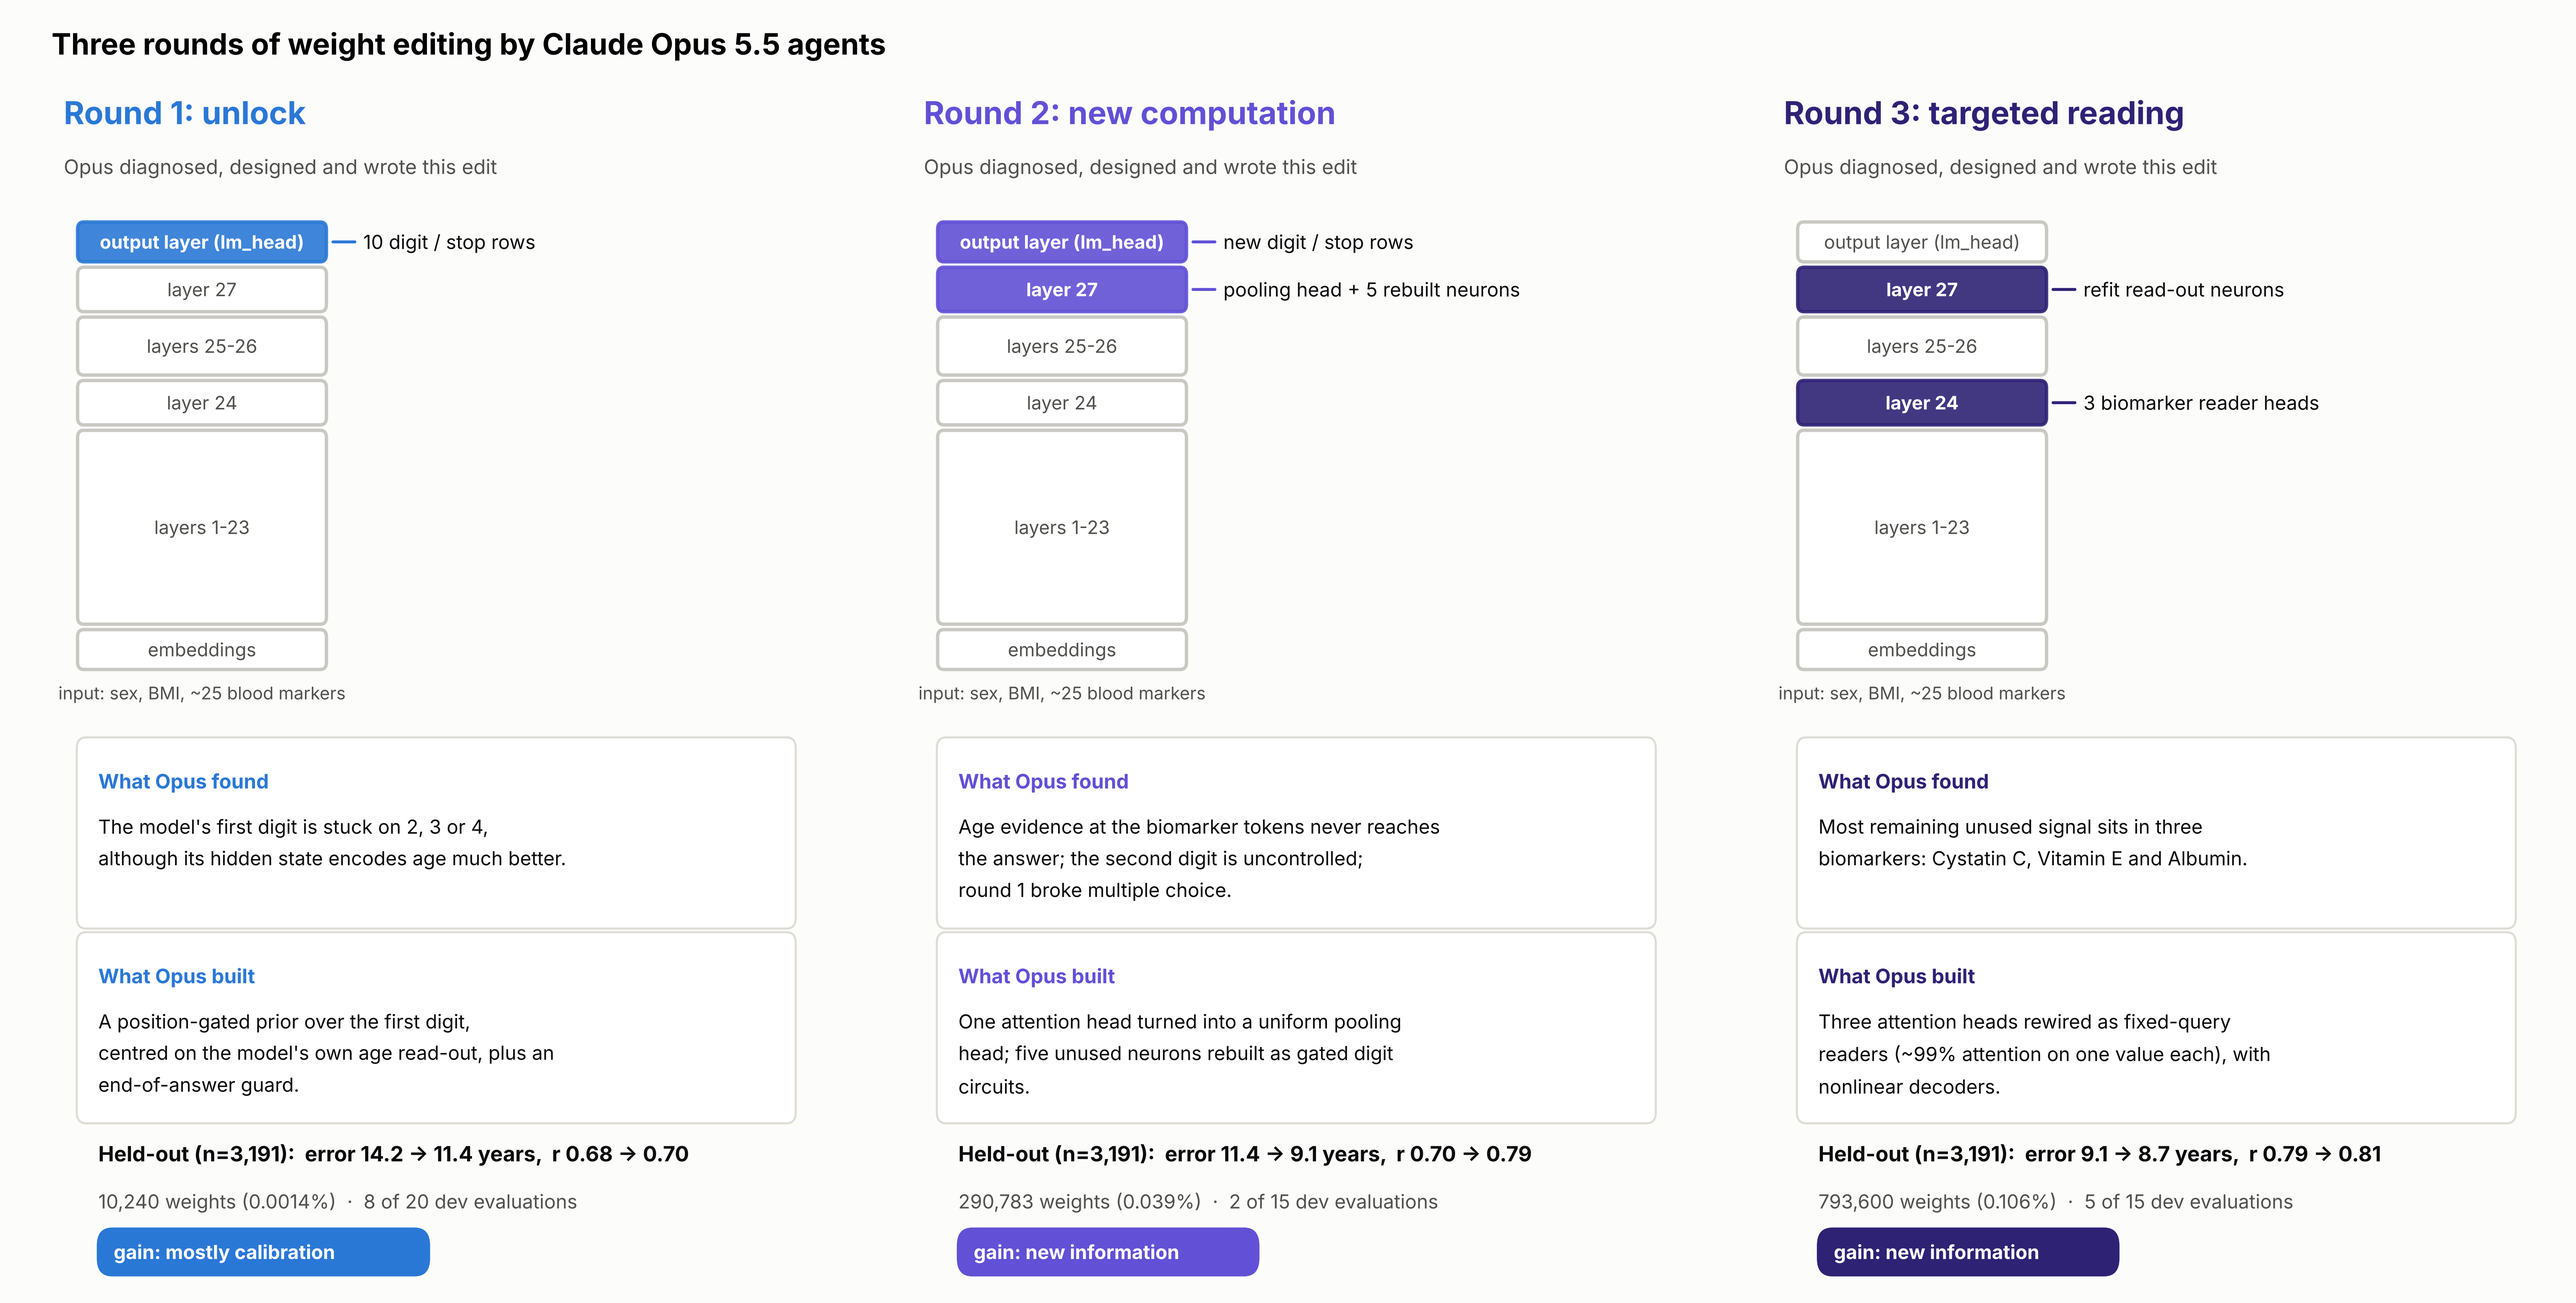
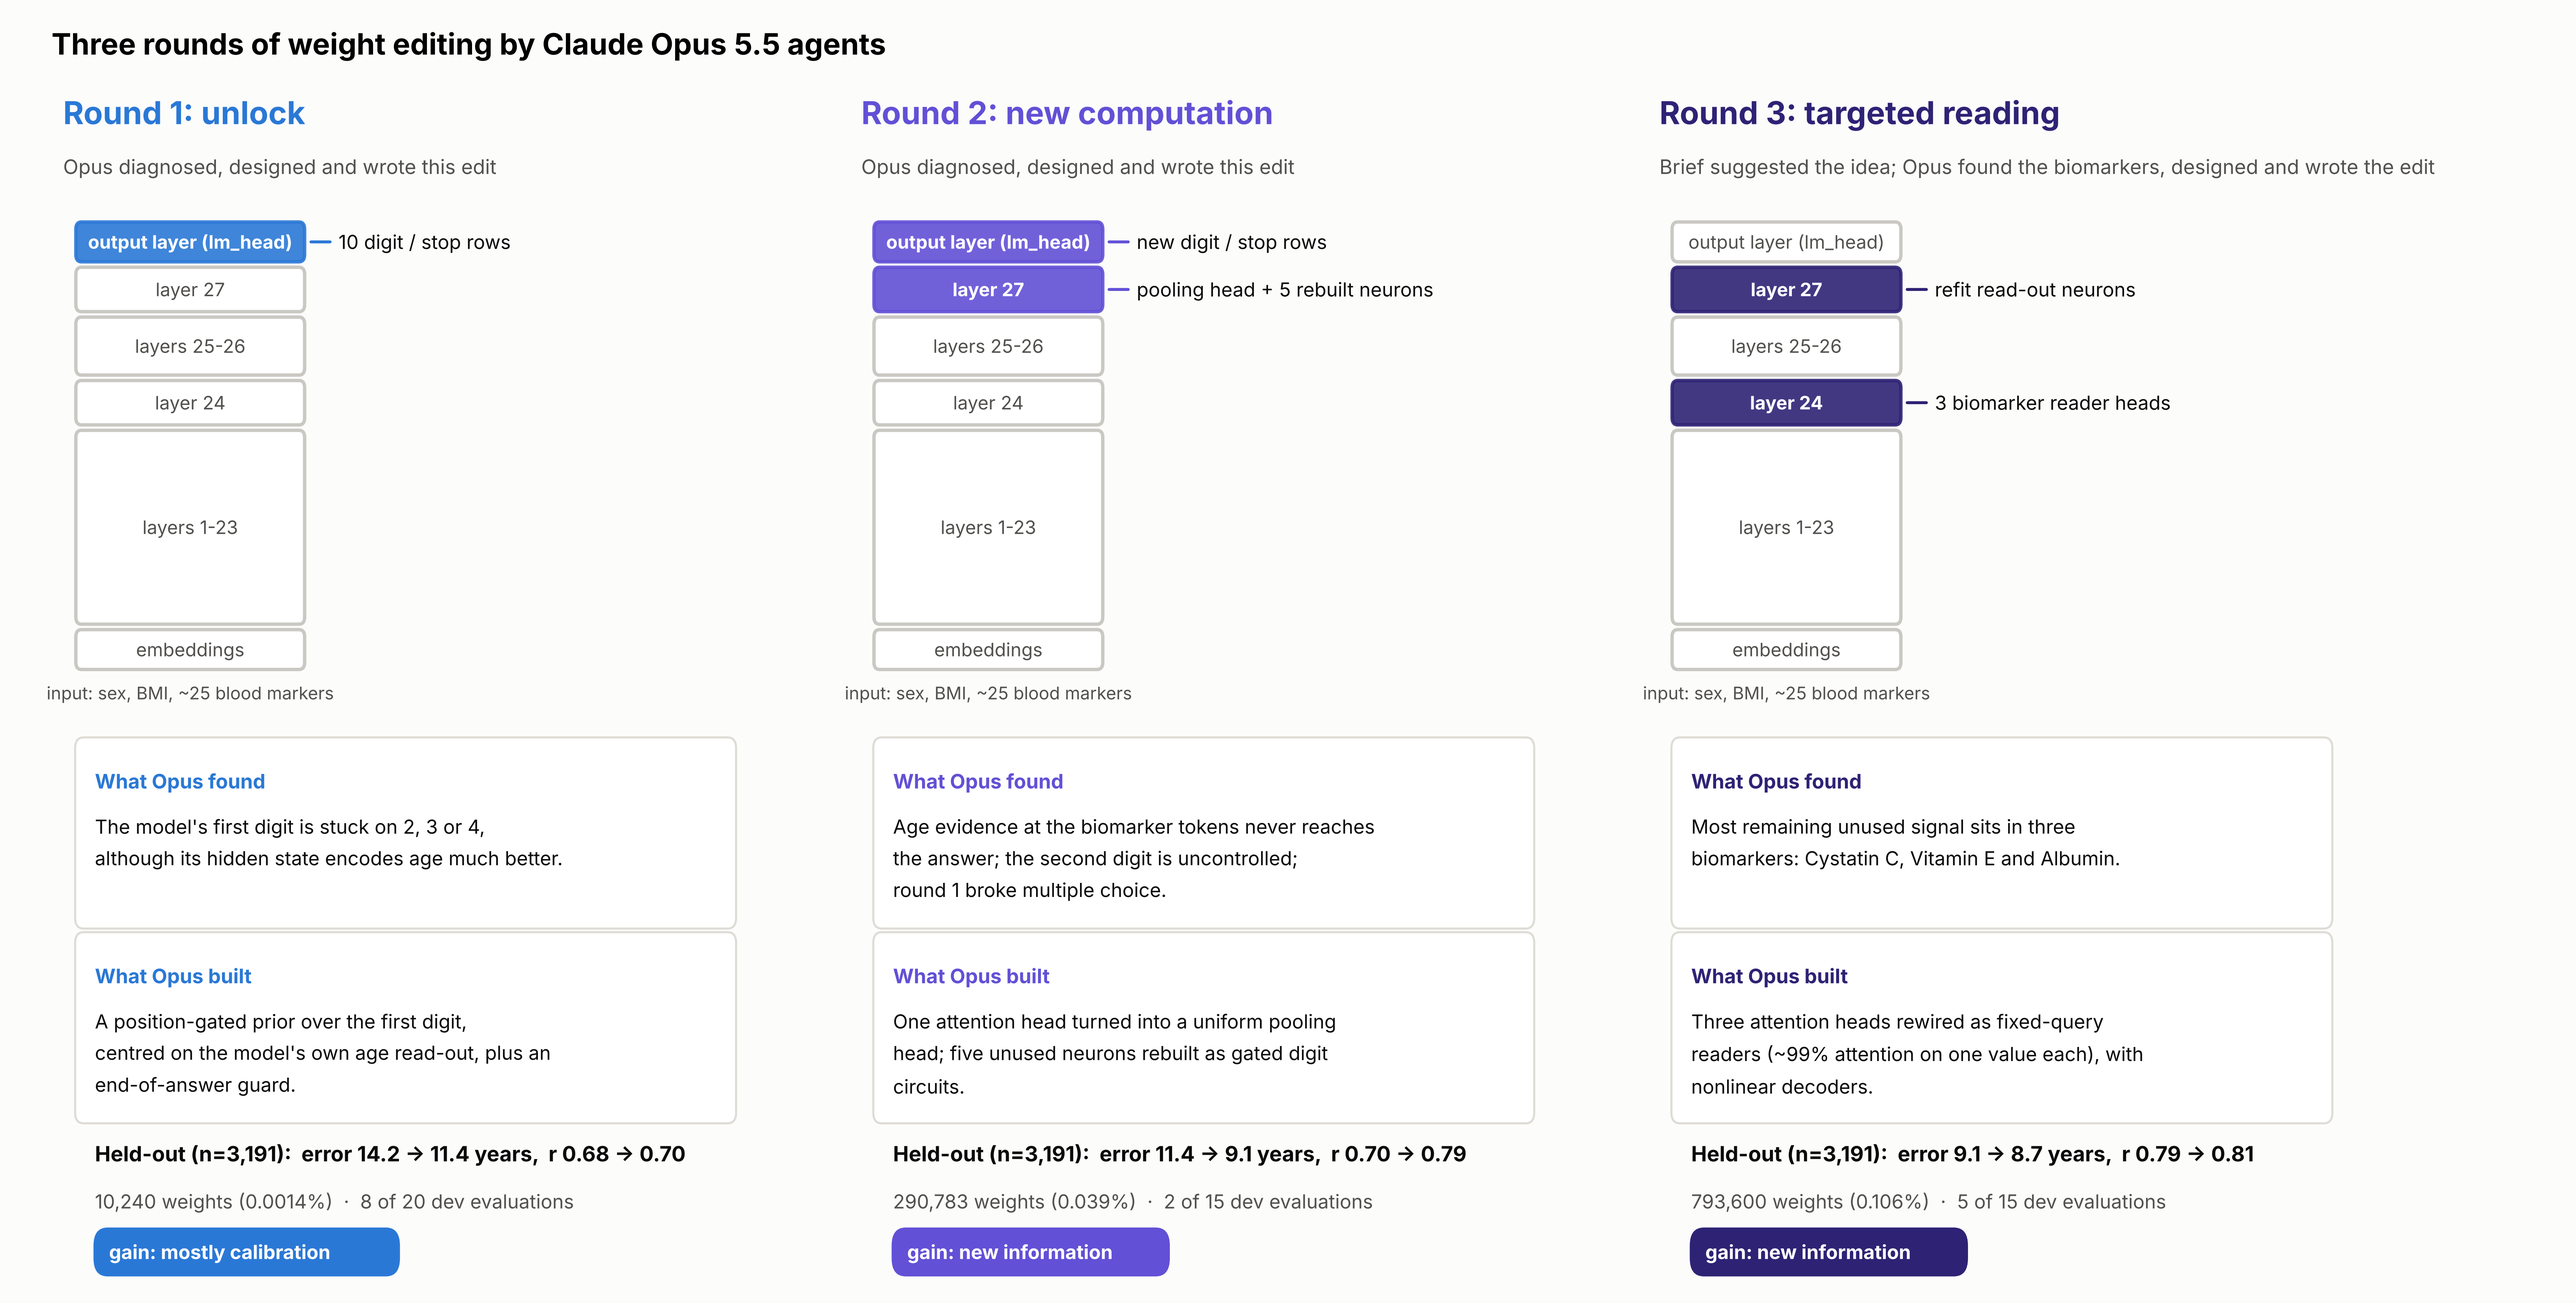
Post v2.1: tighten Round 3 significance wording, comparator claim and table row; update f20 figure
Claude-Session: https://claude.ai/code/session_0189EHowxSYNumpzbTHLKZ9i

diff --git a/src/content/blog/ai-agent-edits-biology-model-weights.md b/src/content/blog/ai-agent-edits-biology-model-weights.md
@@ -217,7 +217,7 @@ So it **rewired three attention heads in layer 24 into "reader" heads**. Each ha
 | Round 2               | 9.07        | 0.792       | 9.10                       | 12.3              |
 | **Round 3**           | **8.70**    | **0.807**   | **8.74**                   | **11.4**          |
 
-**Round 3's step over round 2 is statistically significant on every measure:** error −0.37 years (CI −0.54 to −0.19), correlation +0.015 (CI +0.007 to +0.023), and best-rescaling error 9.10 → 8.74. So it is mostly an information gain. On the official mini split, error went from 9.87 to 8.89 and correlation from 0.81 to 0.86.
+**Round 3's step over round 2 is statistically significant in both error and correlation:** error −0.37 years (CI −0.54 to −0.19), correlation +0.015 (CI +0.007 to +0.023). Best-rescaling error also improves, 9.10 → 8.74, so it is mostly an information gain. On the official mini split, error went from 9.87 to 8.89 and correlation from 0.81 to 0.86.
 
 _(On our original 200-person test set alone, this step looked like noise: −0.30, CI −0.96 to +0.38. The 3,191-person evaluation resolved it.)_
 
@@ -296,12 +296,12 @@ We ran 24 open models on the same 400 held-out people with the same prompts, on 
 | Insilico longevity-llm (Qwen3.5-9B)                                              | 9.0B     | 100%                              | 19.4    | 0.60        |
 | Qwen2.5-1.5B-Instruct                                                            | 1.5B     | 86%                               | 15.4    | 0.16        |
 | Qwen3-4B, Qwen3-8B, Qwen2.5-3B, Qwen2.5-7B, Phi-3.5-mini, Phi-4-mini, Mistral-7B | 3–8B     | **0%**                            | —       | —           |
-| Qwen3-0.6B, Qwen3-1.7B, Qwen2.5-0.5B (base/instruct)                             | 0.5–1.7B | 2–36%                             | —       | ≤ 0         |
+| Qwen3-0.6B, Qwen3-1.7B, Qwen2.5-0.5B-Instruct                                    | 0.5–1.7B | 2–36%                             | —       | ≤ 0         |
 | SmolLM2-1.7B-Instruct                                                            | 1.7B     | 90%                               | 18.1    | −0.06       |
 
 - **General-purpose open models do not do this task, at least not directly.** Seven models of 3–8 billion parameters gave no number within the first 16 tokens in any of the 400 cases. The smaller Qwen models we inspected on CPU typically refused outright (_"The participant's age is not provided in the clinical profile"_). Some larger, wordier models may give a number after a longer preamble, which this protocol does not capture. The small models that do answer show no relationship with true age.
 - **Domain fine-tuning creates the ability.** All three Insilico longevity models answer with real signal (correlation 0.60–0.65).
-- **Opus's edits make the 0.6B model the best of all 14, on this task:** correlation 0.76 and 9.1 years of error, against 16.4 for Insilico's 3× larger 1.7B model and 19.4 for its 15× larger 9B model. Given Section 10, that claim is specific to blood-panel age.
+- **Opus's edits make the 0.6B model better than all 14 comparison models on this task:** correlation 0.76 and 9.1 years of error, against 16.4 for Insilico's 3× larger 1.7B model and 19.4 for its 15× larger 9B model. Given Section 10, that claim is specific to blood-panel age.
 
 ## 12. Bonus: reading a model from its weights alone
 
